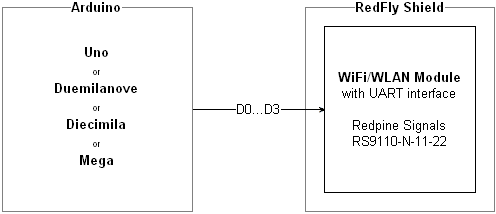
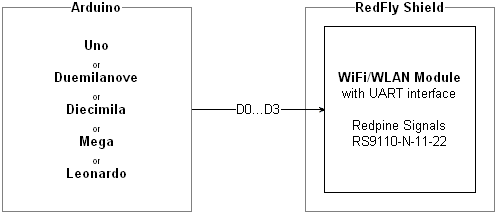
updated readme and hw diagram

diff --git a/README.md b/README.md
@@ -17,7 +17,7 @@ The RedFly-Shield is a plug-on module with WiFi/WLAN for Arduino.
 
 
 ## Hardware
-Compatible with Arduino Uno, Duemilanove, Diecimila and Mega.
+Compatible with Arduino Uno, Duemilanove, Diecimila, Mega and Leonardo.
 
 ![RedFly-Shield hardware dia](https://github.com/watterott/RedFly-Shield/raw/master/img/hw_dia.png)
 
